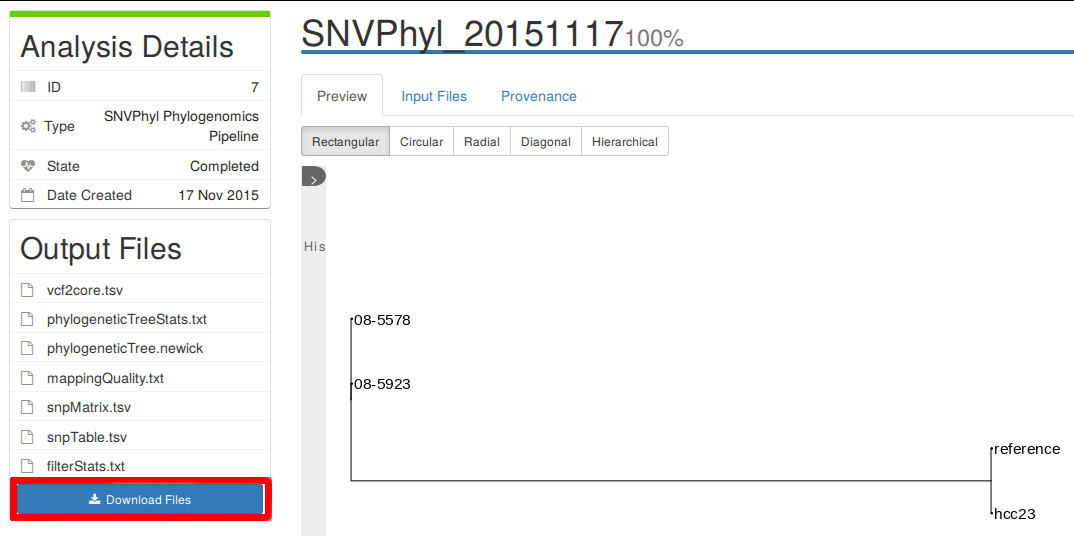
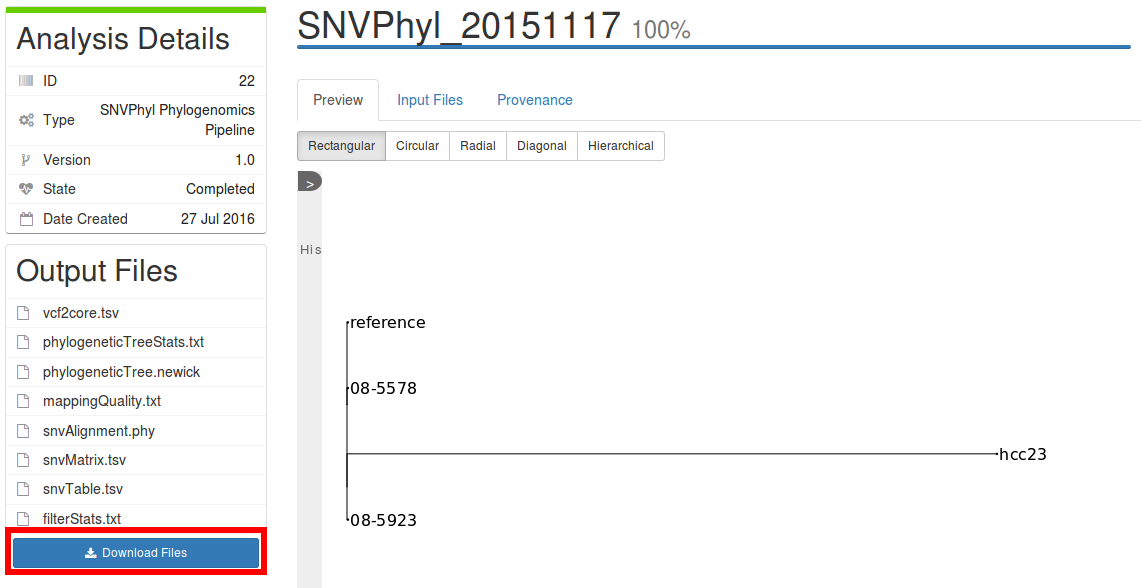
Updated tool version in workflow xml and docs for tutorial

diff --git a/doc/user/tutorials/snvphyl/index.md b/doc/user/tutorials/snvphyl/index.md
@@ -85,13 +85,14 @@ Once the pipeline is complete, you will see the generated phylogenetic tree with
 
 A number of files are provided within the download package.  These are described below:
 
-1. `phylogeneticTree.newick`:  This contains the constructed phylogenetic tree in newick format.
+1. `vcf2core.tsv`:  This defines the number of core positions evaluated for constructing the phylogeny.
 2. `phylogeneticTreeStats.txt`:  This contains additional information about the constructed tree.
-3. `snpMatrix.tsv`:  This contains a pair-wise SNV distance matrix.
-4. `vcf2core.tsv`:  This defines the number of core positions evaluated for constructing the phylogeny.
-5. `snpTable.tsv`:  This is a table of the individual variants detected.
-6. `mappingQuality.txt`:  This defines the percent of the reference covered by each genome.
-7. `filterStats.txt`:  This defines information about the SNVs removed due to poor quality.
+3. `phylogeneticTree.newick`:  This contains the constructed phylogenetic tree in newick format.
+4. `mappingQuality.txt`:  This defines the percent of the reference covered by each genome.
+5. `snvAlignment.phy`:  This defines a multiple sequence alignment of SNVs used to generate the phylogeny.
+6. `snvMatrix.tsv`:  This contains a pair-wise SNV distance matrix.
+7. `snvTable.tsv`:  This is a table of the individual variants detected.
+8. `filterStats.txt`:  This defines information about the SNVs removed due to poor quality.
 
 More information about interpreting these files can be found in the [SNVPhyl Output Guide][].
 
@@ -104,7 +105,7 @@ To view the pipeline provenance information, please select the **Provenance** ta
 
 This will display the individual steps of this pipeline and the parameters used at each step.  For more details on the pipeline please see the [SNVPhyl][] documentation.
 
-[SNVPhyl]: http://snvphyl.readthedocs.org/
+[SNVPhyl]: http://snvphyl.readthedocs.io/
 [snvphyl-pipeline-page.png]: images/snvphyl-pipeline-page.png
 [snvphyl-parameters.png]: images/snvphyl-parameters.png
 [ready-to-launch-button.png]: {{ site.baseurl }}/images/tutorials/common/pipelines/ready-to-launch-button.png
@@ -113,6 +114,6 @@ This will display the individual steps of this pipeline and the parameters used 
 [your-analyses-page.png]: {{ site.baseurl }}/images/tutorials/common/pipelines/your-analyses-page.png
 [snvphyl-analysis-status.png]: images/snvphyl-analysis-status.png
 [snvphyl-analysis-status-details.png]: images/snvphyl-analysis-status-details.png
-[SNVPhyl Output Guide]: http://snvphyl.readthedocs.org/en/latest/user/output/
+[SNVPhyl Output Guide]: http://snvphyl.readthedocs.io/en/latest/user/output/
 [snvphyl-results.png]: images/snvphyl-results.png
 [snvphyl-provenance.png]: images/snvphyl-provenance.png
